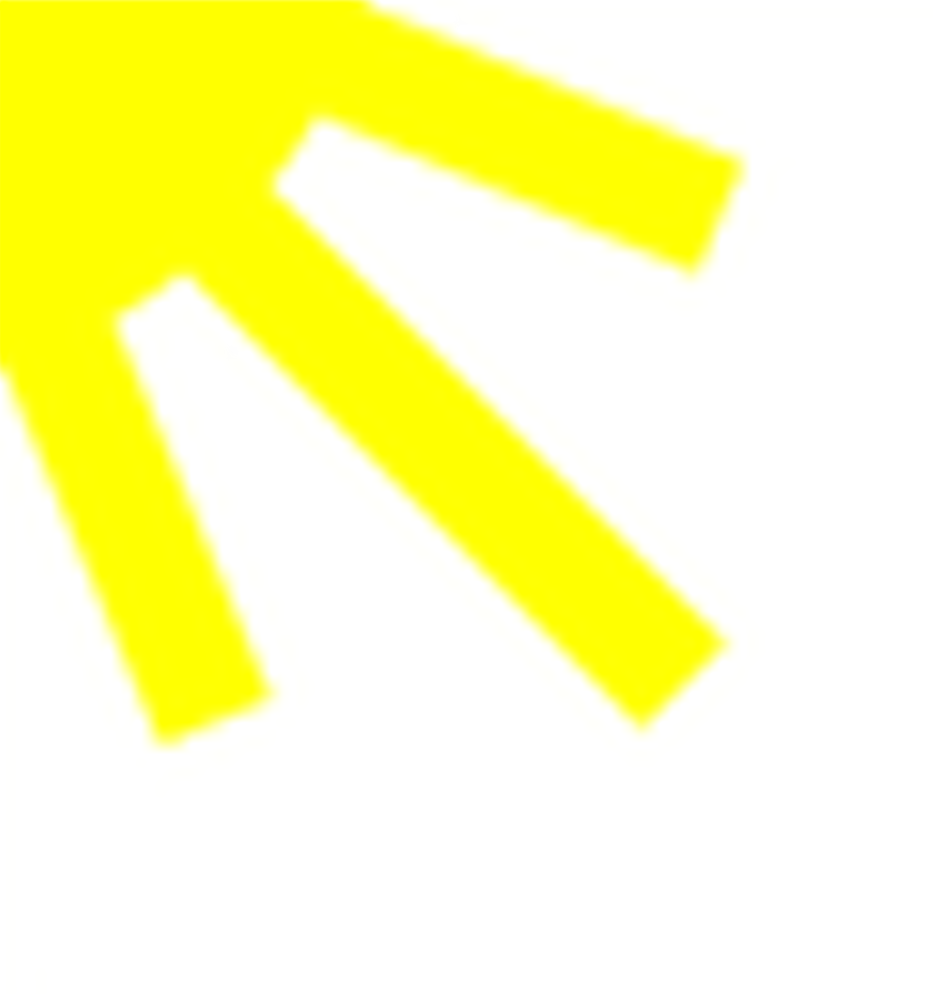
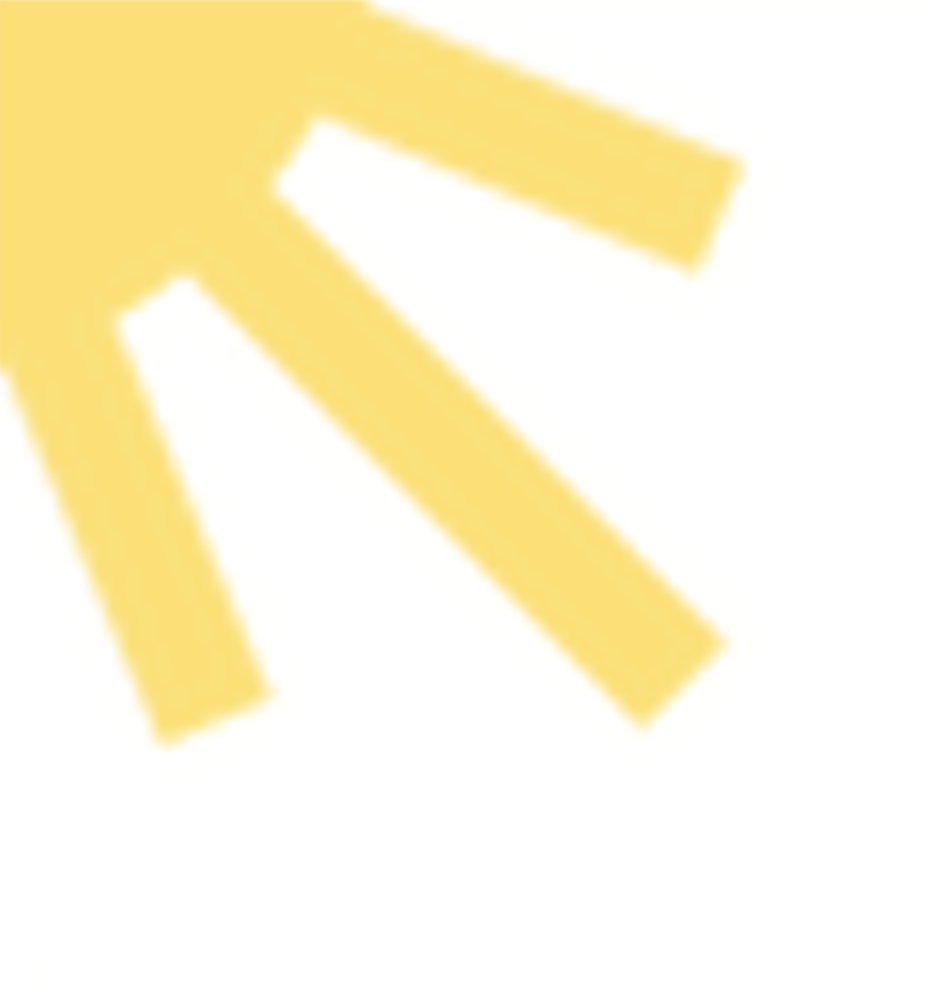
Initial colors added and links and headers center. Initial page done in placement.

diff --git a/djangocap/Assure_Me/static/css/main.css b/djangocap/Assure_Me/static/css/main.css
@@ -1,0 +1,69 @@
+body {
+    background: #6C585B;
+    font-family: 'Raleway', sans-serif;
+}
+
+p {
+    color:#D0D3AA 
+}
+
+a {
+    font-family: 'Tangerine', cursive;
+    font-weight: 900;
+    font-size: 2.5rem;
+    text-decoration: none;
+    color: #FBE178;
+}
+.is_hidden {
+    display: none
+}
+
+img {
+    width:90px;
+}
+
+.Assure_Me_Nav {
+    font-family: 'Tangerine', cursive;
+    font-weight: 900;
+    font-size: 2.5rem;
+    border-top: solid #FBE178 10px;
+    border-left: solid #FBE178 10px;
+    display: block;
+    position: relative;
+    height: 105px;
+    margin-bottom: 25px
+}
+
+.Assure_Me_Button p{
+    margin-left: -75px;
+    text-decoration: none;
+    display: inline-block;
+    color: #FBE178
+}
+
+.Logout_Button{
+    font-family: 'Tangerine', cursive;
+    font-weight: 900;
+    font-size: 2.5rem;
+    text-decoration: none;
+    color: #FBE178;
+    position: absolute;
+    right: 15px;
+    bottom: -1px;
+}
+
+.Header {
+    text-align: center;
+    color: #B0BA8D
+}
+
+.Initial_Buttons {
+    margin-top: 15%;
+    display: flex;
+    justify-content: space-evenly;
+}
+
+.Initial_Buttons a {
+    border-top: solid #FBE178 2.5px;
+    border-left: solid #FBE178 2.5px;
+}

diff --git a/djangocap/Assure_Me/templates/navbar.html b/djangocap/Assure_Me/templates/navbar.html
@@ -1,8 +1,7 @@
 {% load staticfiles %}
 
-<link href="https://fonts.googleapis.com/css?family=Tangerine" rel="stylesheet">
-
-<link rel="stylesheet" type="text/css" href="{% static 'css/nav.css' %}">
+<link href="https://fonts.googleapis.com/css?family=Raleway|Tangerine" rel="stylesheet">
+<link rel="stylesheet" type="text/css" href="{% static 'css/main.css' %}">
 
     <nav class="navbar">
         {% if user.is_authenticated %}

diff --git a/djangocap/Assure_Me/templates/initial.html b/djangocap/Assure_Me/templates/initial.html
@@ -9,11 +9,9 @@
 
 <body>
     {% include "navbar.html" %}
-    <h1>Welcome to Assure Me!</h1>
-        <div>
+    <h1 class="Header">Welcome to Assure Me!</h1>
+        <div class="Initial_Buttons">
             <a href="{% url 'Assure_Me:login' %}">Login</a>
-        </div>
-        <div>
             <a href="{% url 'Assure_Me:register' %}">Register</a>
         </div>
 </body>

diff --git a/djangocap/Assure_Me/templates/user_home.html b/djangocap/Assure_Me/templates/user_home.html
@@ -9,8 +9,8 @@
 
 <body>
   {% include "navbar.html" %}
-  <h1>Welcome to your Assure Me Home Page!</h1>
-  <h1>Hello, {{ user.first_name }}!</h1>
+  <h1 class="Header">Welcome to your Assure Me Home Page!</h1>
+  <h1 class="Header">Hello, {{ user.first_name }}!</h1>
 
   {% include "helpful_tips.html" %}
   <div>

diff --git a/djangocap/Assure_Me/templates/affirmations.html b/djangocap/Assure_Me/templates/affirmations.html
@@ -1,7 +1,7 @@
 {% include "navbar.html"%}
 {% load staticfiles %}
 
-<h1>Affirmations</h1>
+<h1 class="Header">Affirmations</h1>
 
 <form id="affirmation_input" method="post" action="{% url 'Assure_Me:new_affirmation' %}">
     {% csrf_token %}

diff --git a/djangocap/Assure_Me/templates/account.html b/djangocap/Assure_Me/templates/account.html
@@ -8,7 +8,7 @@
   <body>
     {% include "navbar.html" %}
     
-    <h1>My Account</h1>
+    <h1 class="Header">My Account</h1>
 
     {% block account %}
     <h2>First name: {{ user.first_name }}</h2>

diff --git a/djangocap/Assure_Me/templates/register.html b/djangocap/Assure_Me/templates/register.html
@@ -8,7 +8,7 @@
 <body>
 
     {% include "navbar.html" %}
-    <h1>Register with Assure Me</h1>
+    <h1 class="Header">Register with Assure Me</h1>
 
     <strong>Register here!</strong>
     <br />

diff --git a/djangocap/Assure_Me/templates/login.html b/djangocap/Assure_Me/templates/login.html
@@ -8,7 +8,7 @@
 <body>
 
     {% include "navbar.html" %}
-    <h1>Login to Assure Me</h1>
+    <h1 class="Header">Login to Assure Me</h1>
     
     {% if bad_login %}
         <div>
